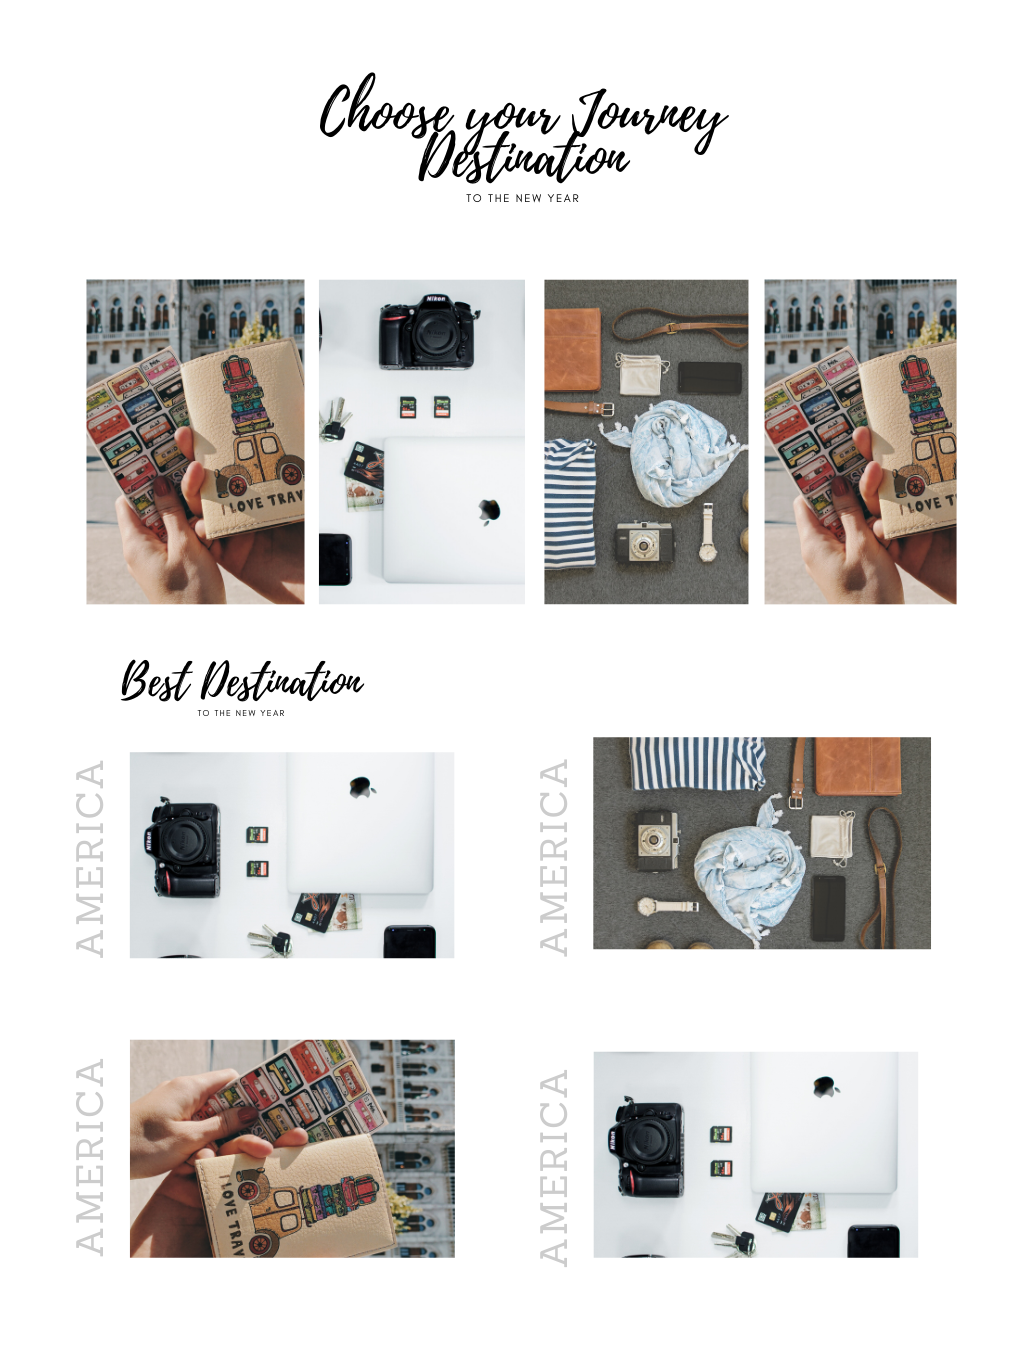
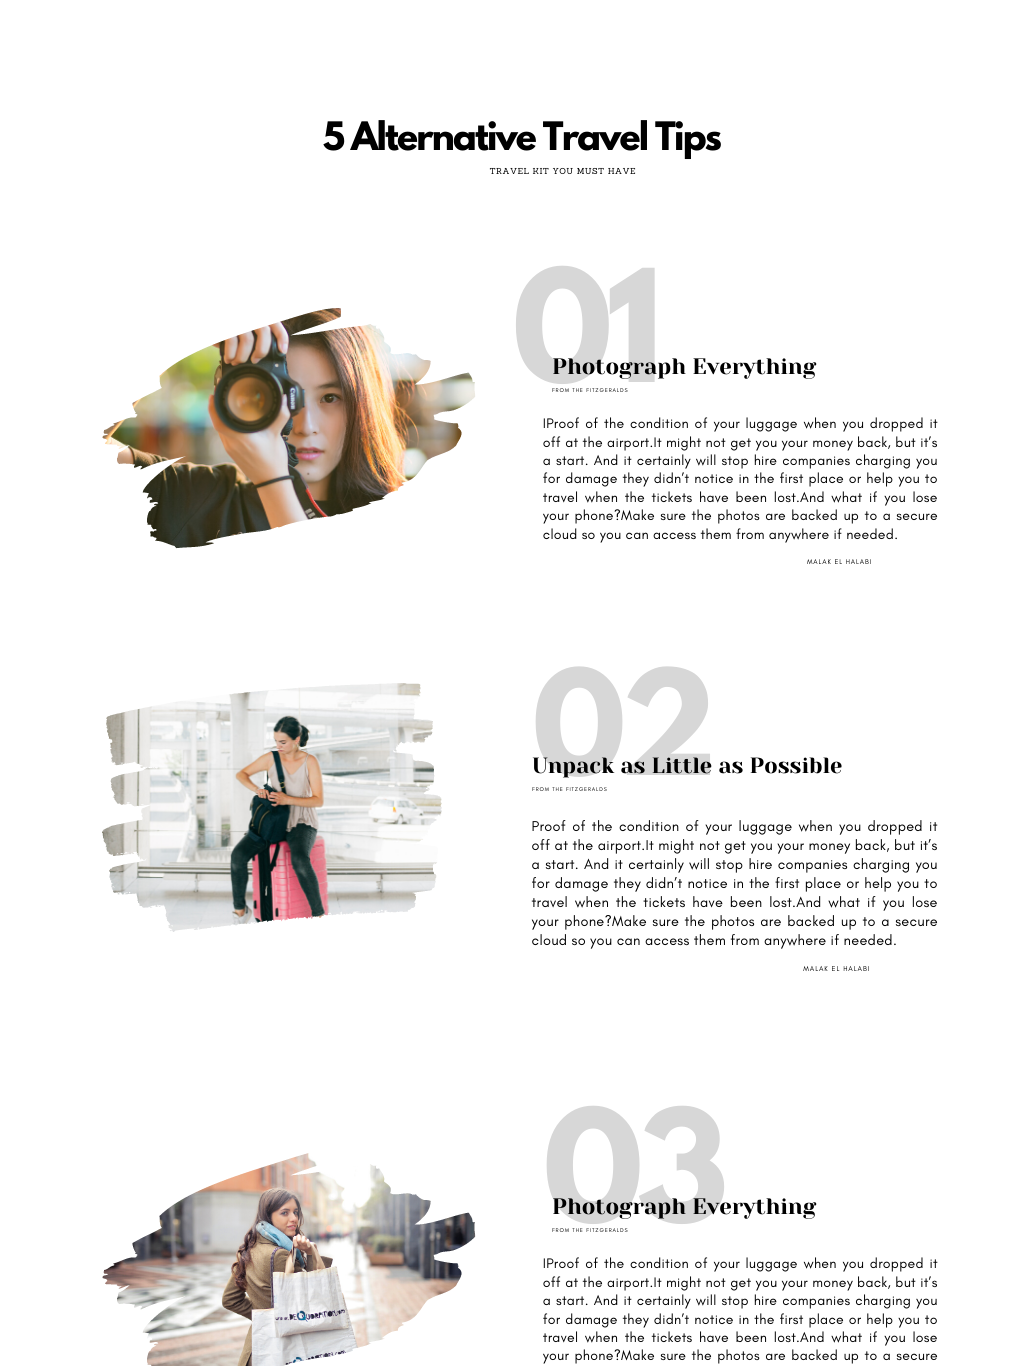
add tips page

diff --git a/src/components/pages/tips.html b/src/components/pages/tips.html
@@ -1,0 +1,41 @@
+<div id="tips">
+  <h1>5 Alternative Travel Tips</h1>
+  <div id="tips-list" class="row">
+    <div class="tips-item col s12 m12 l12">
+      <div class="col s12 m6 l6">
+        <img src="src/images/travel-tips-01.png" />
+      </div>
+      <div class="col s12 m6 l6">
+        <span>01</span>
+        <h1>Photograph Everything</h1>
+        <p>
+          IProof of the condition of your luggage when you dropped it off at the
+          airport.It might not get you your money back, but it’s a start. And it
+          certainly will stop hire companies charging you for damage they didn’t
+          notice in the first place or help you to travel when the tickets have
+          been lost.And what if you lose your phone?Make sure the photos are
+          backed up to a secure cloud so you can access them from anywhere if
+          needed.
+        </p>
+      </div>
+    </div>
+    <div class="tips-item col s12 m12 l12">
+      <div class="col s12 m6 l6">
+        <img src="src/images/travel-tips-02.png" />
+      </div>
+      <div class="col s12 m6 l6">
+        <span>02</span>
+        <h1>Unpack as Little as Possible</h1>
+        <p>
+          IProof of the condition of your luggage when you dropped it off at the
+          airport.It might not get you your money back, but it’s a start. And it
+          certainly will stop hire companies charging you for damage they didn’t
+          notice in the first place or help you to travel when the tickets have
+          been lost.And what if you lose your phone?Make sure the photos are
+          backed up to a secure cloud so you can access them from anywhere if
+          needed.
+        </p>
+      </div>
+    </div>
+  </div>
+</div>

diff --git a/src/css/components/tips.css b/src/css/components/tips.css
@@ -1,0 +1,40 @@
+@import url("https://fonts.googleapis.com/css2?family=Yeseva+One&display=swap");
+
+#tips h1 {
+  text-align: center;
+  padding: 40px;
+}
+
+.tips-item {
+  position: relative;
+  margin-bottom: 150px;
+}
+
+#tips .tips-item img {
+  width: 500px;
+}
+
+#tips .tips-item h1 {
+  font-family: "Yeseva One", cursive;
+  font-size: 25px;
+  margin: 0;
+  padding: 60px 0 0 15px;
+  text-align: left;
+}
+
+#tips .tips-item span {
+  position: absolute;
+  z-index: -1;
+  font-size: 150px;
+  color: lightgray;
+  margin-top: -7%;
+  font-weight: bold;
+  padding-left: 15px;
+}
+
+#tips .tips-item p {
+  font-size: 15px;
+  text-align: justify;
+  width: 80%;
+  padding-left: 15px;
+}

diff --git a/src/components/nav-menu.html b/src/components/nav-menu.html
@@ -1,4 +1,4 @@
 <li><a href="#home">Home</a></li>
 <li><a href="#travel-kit">Travel Kit</a></li>
 <li><a href="#destination">Destination</a></li>
-<li><a href="#travel-kit">Tips</a></li>
+<li><a href="#tips">Tips</a></li>

diff --git a/src/css/styles.css b/src/css/styles.css
@@ -2,6 +2,7 @@
 @import "./components/home.css";
 @import "./components/travel-kit.css";
 @import "./components/destination.css";
+@import "./components/tips.css";
 
 * {
   box-sizing: border-box;

diff --git a/src/css/components/home.css b/src/css/components/home.css
@@ -18,7 +18,7 @@
 }
 
 h1 {
-  font-family: league-spartan, Arial, Helvetica, sans-serif;
+  font-family: playlist-script, Arial, Helvetica, sans-serif;
 }
 
 .center {
